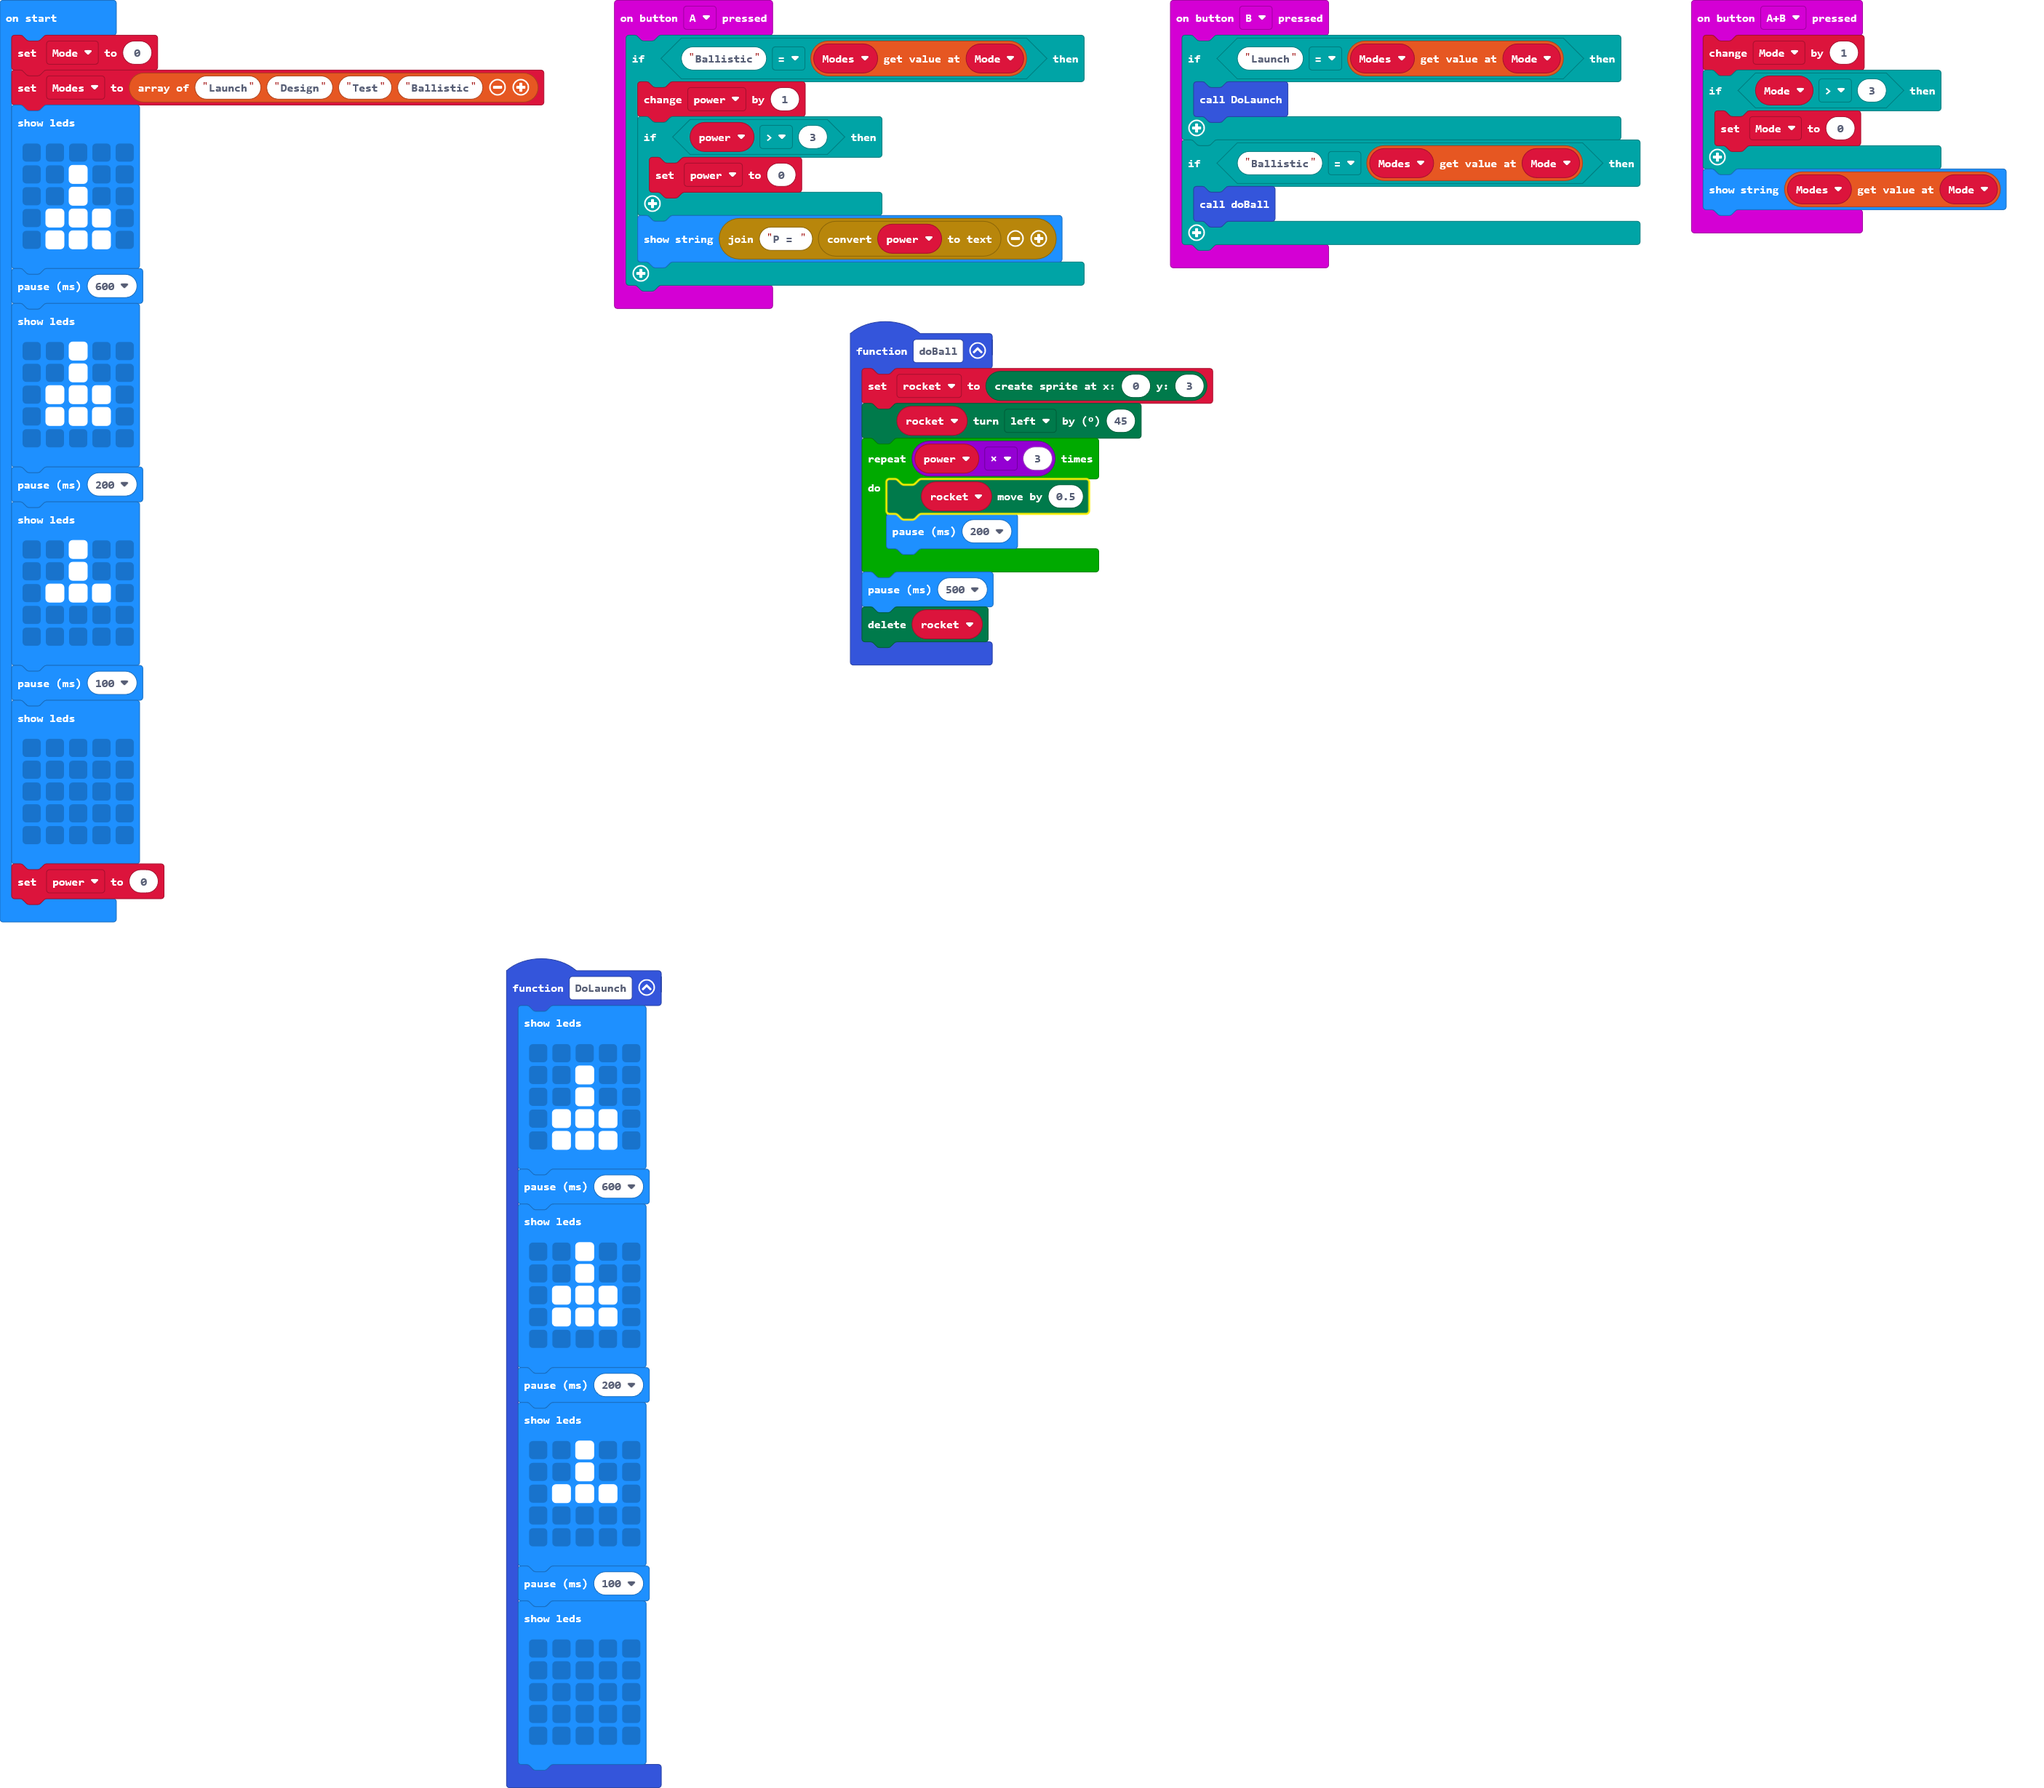
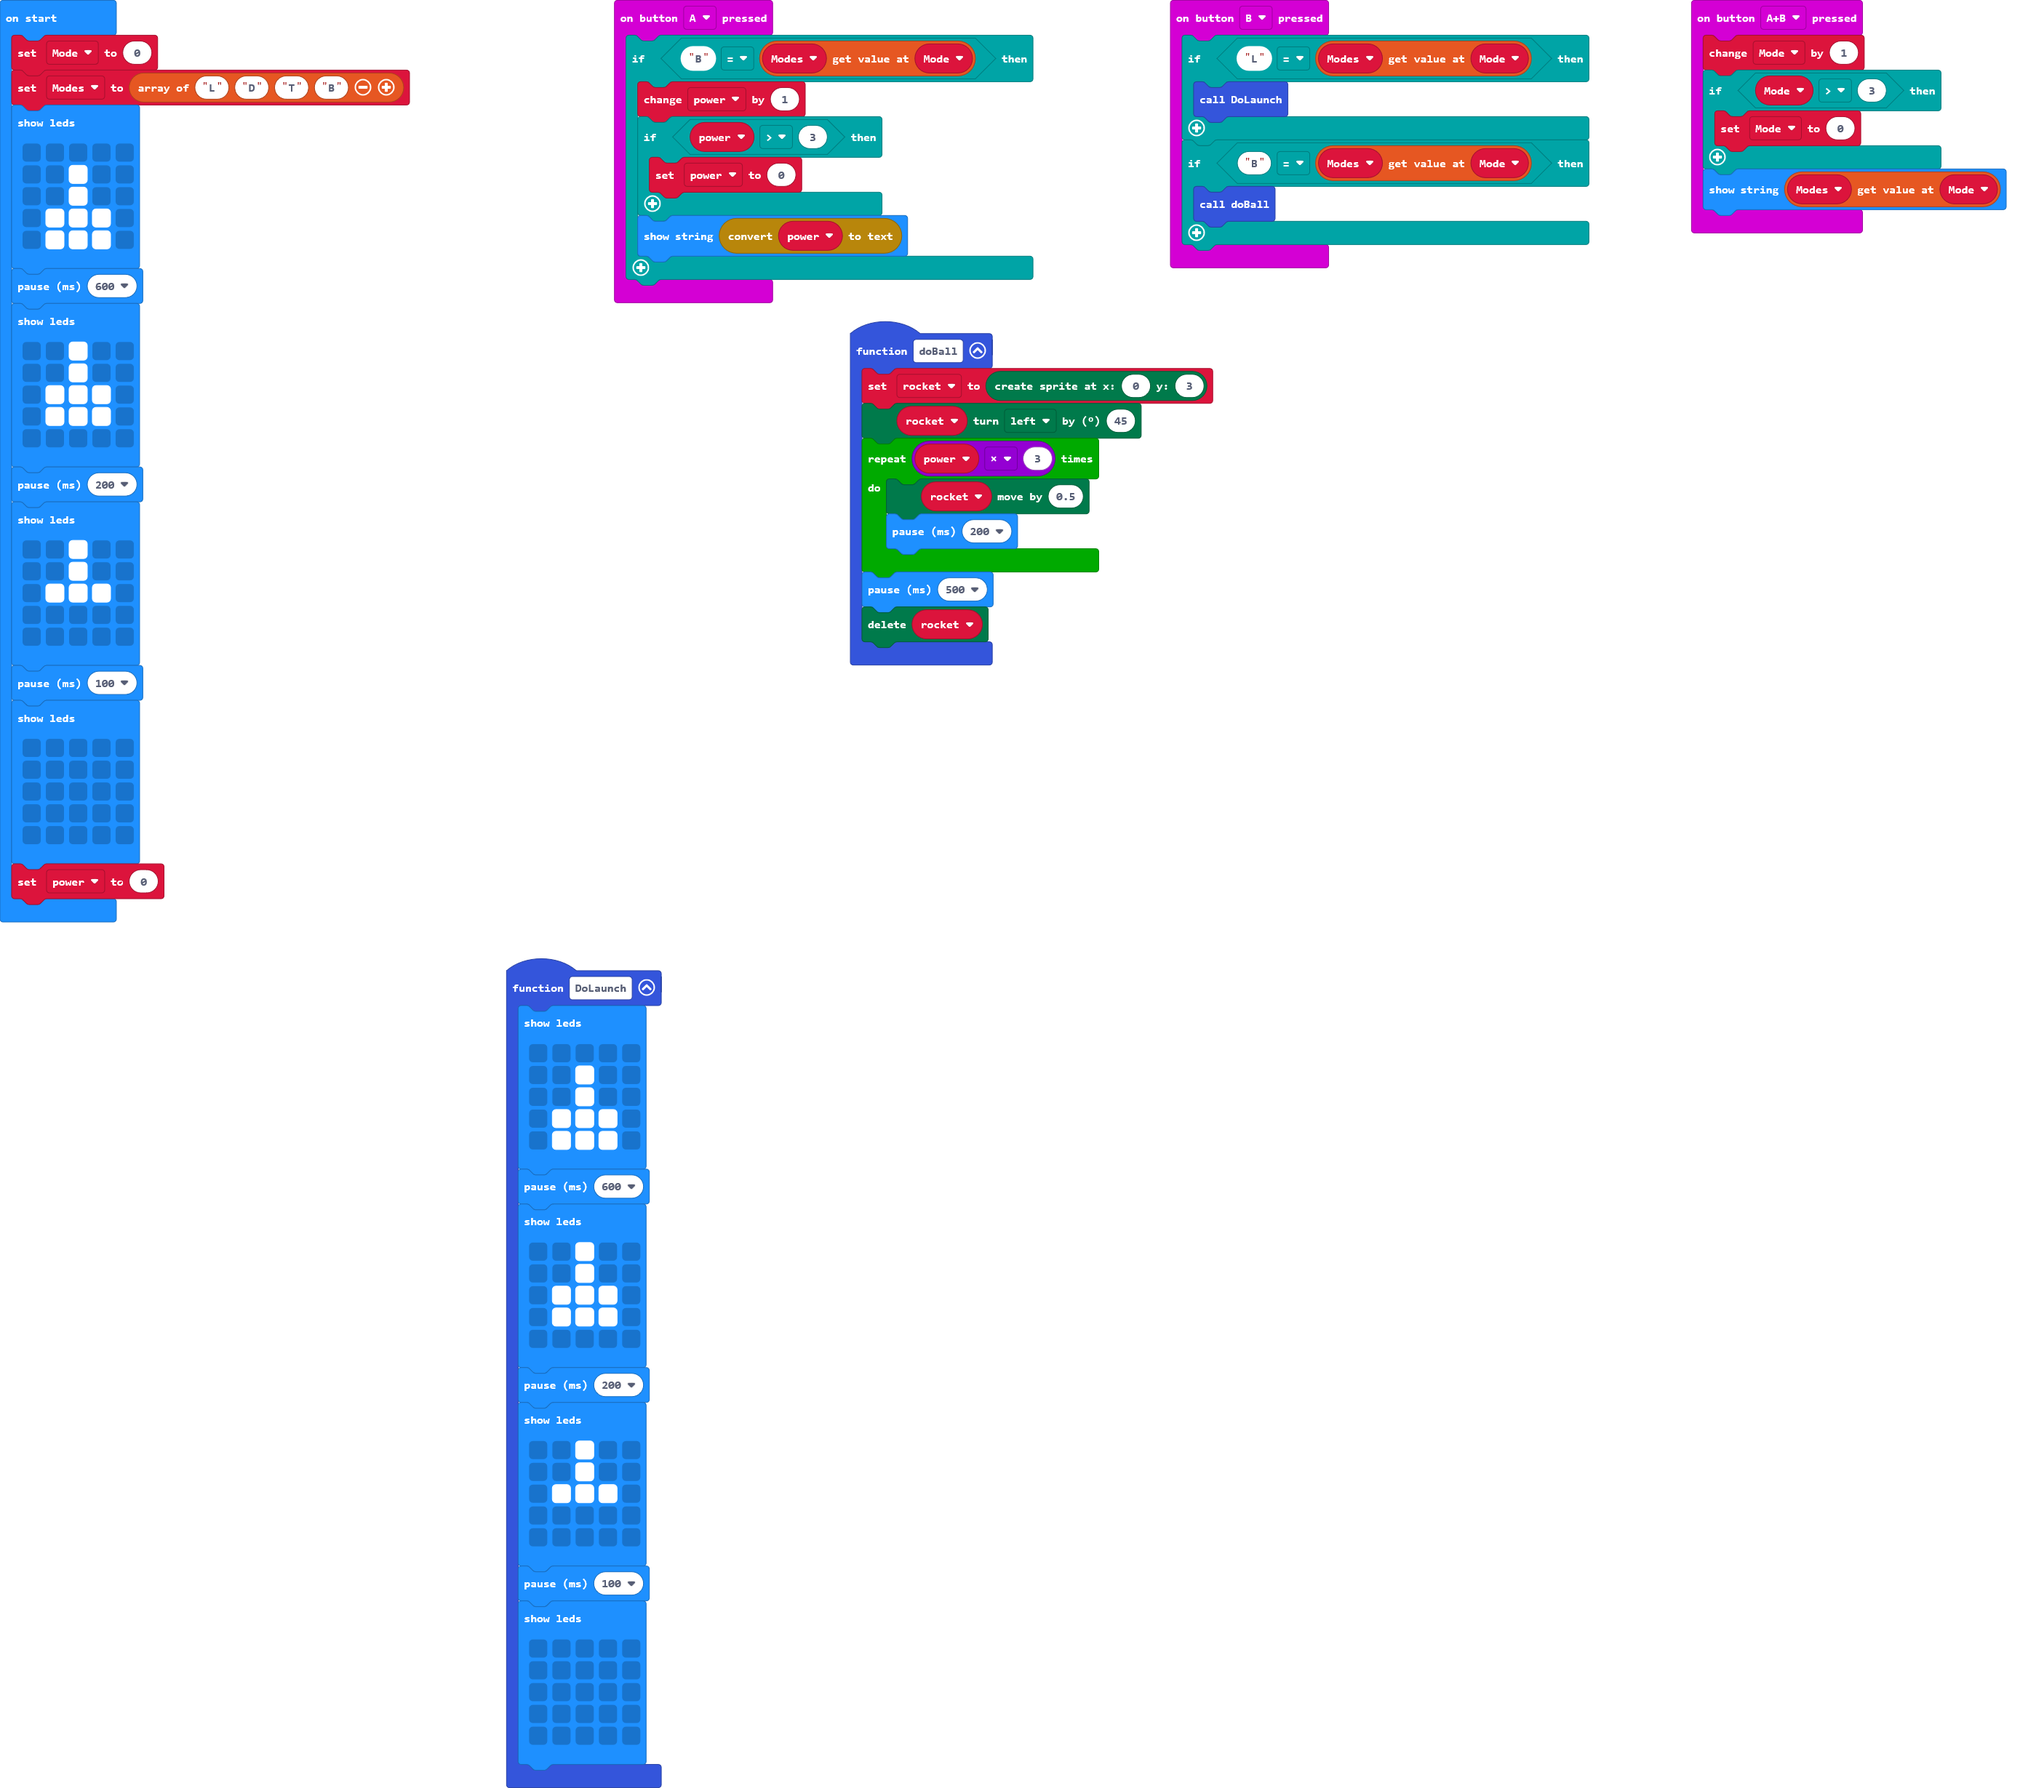
Update main.blocks, main.ts

diff --git a/main.ts b/main.ts
@@ -1,10 +1,10 @@
 input.onButtonPressed(Button.A, function () {
-    if ("Ballistic" == Modes[Mode]) {
+    if ("B" == Modes[Mode]) {
         power += 1
         if (power > 3) {
             power = 0
         }
-        basic.showString("P = " + convertToText(power))
+        basic.showString(convertToText(power))
     }
 })
 function doBall () {
@@ -25,10 +25,10 @@ input.onButtonPressed(Button.AB, function () {
     basic.showString("" + (Modes[Mode]))
 })
 input.onButtonPressed(Button.B, function () {
-    if ("Launch" == Modes[Mode]) {
+    if ("L" == Modes[Mode]) {
         DoLaunch()
     }
-    if ("Ballistic" == Modes[Mode]) {
+    if ("B" == Modes[Mode]) {
         doBall()
     }
 })
@@ -70,7 +70,7 @@ let power = 0
 let Modes: string[] = []
 let Mode = 0
 Mode = 0
-Modes = ["Launch", "Design", "Test", "Ballistic"]
+Modes = ["L", "D", "T", "B"]
 basic.showLeds(`
     . . . . .
     . . # . .
